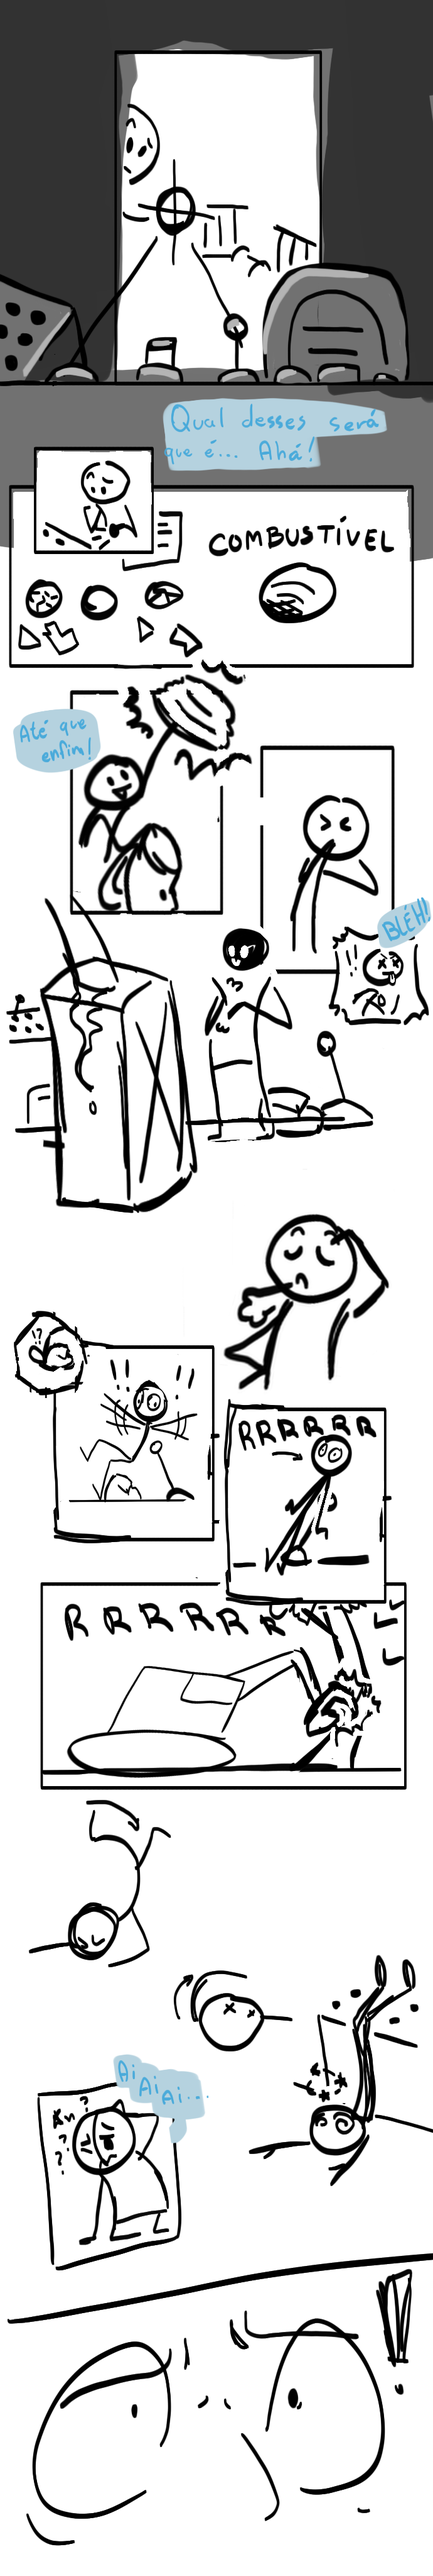
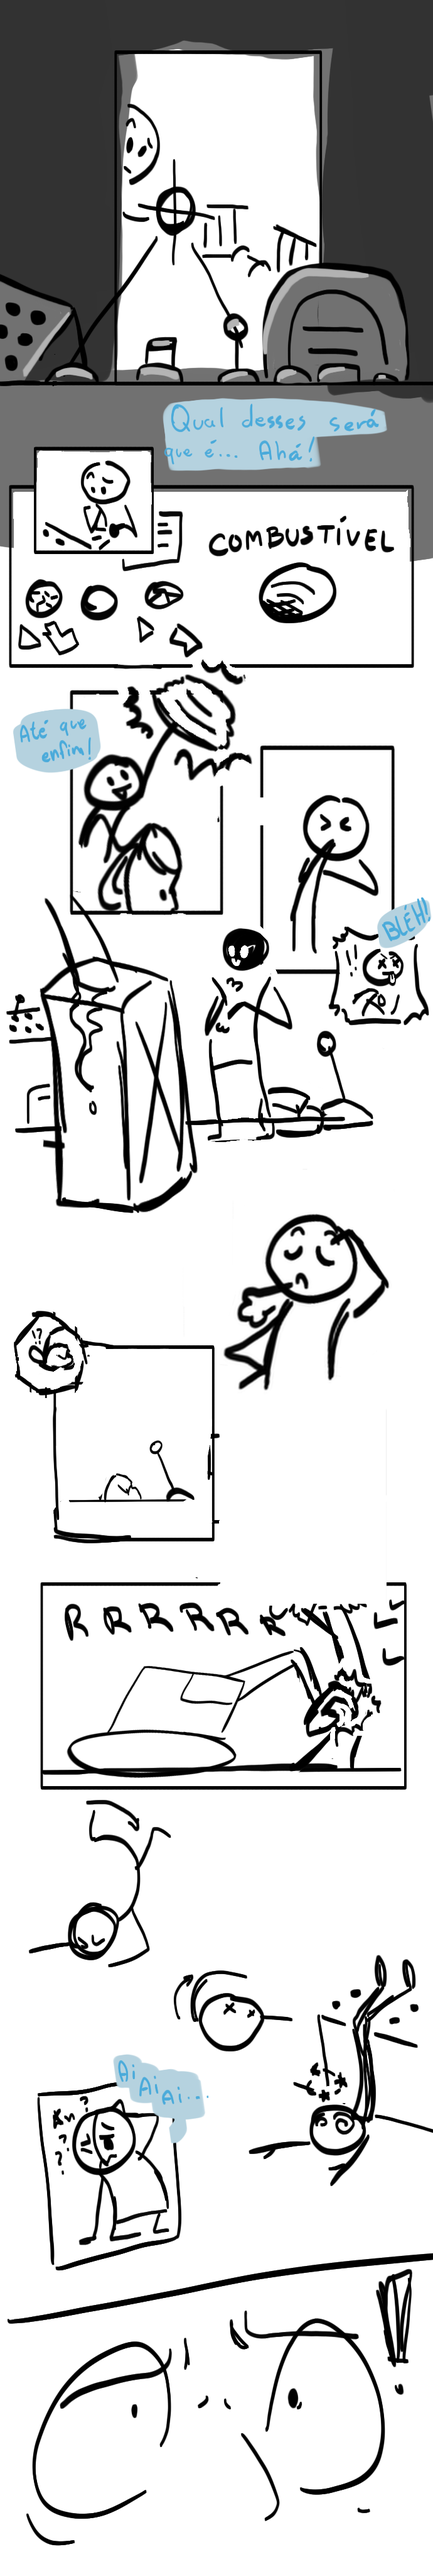
adiciona animações no quadrinho principal e ajusta detalhes de responsividade

Changed region(s): [[0.5174, 0.5312, 0.913, 0.625], [0.2435, 0.5312, 0.4565, 0.5625]]

diff --git a/Projeto/script.js b/Projeto/script.js
@@ -1,18 +1,28 @@
 let chegouAoFinal = false;
+let iniciaAnimacaoPagina3 = false;
 
 window.addEventListener("scroll", () => {
-    // if (window.innerWidth > 768) {
-    //     chegouAoFinal = window.innerHeight + window.scrollY >= document.documentElement.scrollHeight - 200;
-    // } else {
-    //     chegouAoFinal = window.innerHeight + window.scrollY >= document.documentElement.scrollHeight - 300;
-    // }
+    if(
+        window.innerHeight + window.scrollY >= document.documentElement.scrollHeight * 0.83
+        && !iniciaAnimacaoPagina3
+    ){
+        iniciaAnimacaoPagina3 = true;
+        const chocalhos = document.querySelectorAll(".chocalho");
+        
+        chocalhos[0].style.display = "none";
+        
+        setTimeout(() => {
+            chocalhos[0].style.display = "block";
+            chocalhos[1].style.display = "none";
+        }, 1800)
+        chocalhos[1].style.display = "block";
+    }
 
     if(!chegouAoFinal){
-    chegouAoFinal = window.innerHeight + window.scrollY >= document.documentElement.scrollHeight * 0.85;
+        chegouAoFinal = window.innerHeight + window.scrollY >= document.documentElement.scrollHeight * 0.95;
     }
 
     if(chegouAoFinal){
-
         document.querySelectorAll(".patrão").forEach(x => {
             x.style.display = "none";
         }) 
@@ -23,3 +33,4 @@ window.addEventListener("scroll", () => {
 
     }
 })
+

diff --git a/index.html b/index.html
@@ -8,12 +8,17 @@
 </head>
 <body>
     
-<img src="Projeto/img/1_Story_Nat_Pg1.png">
-<img class="patrão" src="Projeto/img/2_Story_Nat_Pg2.png">
-<img class="patrão" src="Projeto/img/3_Story_Nat_Pg3.png">
+    <img src="Projeto/img/1_Story_Nat_Pg1.png">
+    <img class="patrão" src="Projeto/img/2_Story_Nat_Pg2.png">
+    <div class="cena patrão">
+        <img src="Projeto/img/3_Story_Nat_Pg3.png">
+        <img src="Projeto/img/tropeco.gif" class="tropeco">
+        <img src="Projeto/img/chocalho.gif" class="chocalho">
+        <img src="Projeto/img/chocalho_parado.png" class="chocalho parado">
+    </div>
 
-<img class="ocultDay" src="Projeto/img/5_Story_Nat_Pg2_SideB.png">
-<img class="ocultDay" src="Projeto/img/4_Story_Nat_Pg3_SideB.png">
+    <img class="ocultDay" src="Projeto/img/5_Story_Nat_Pg2_SideB.png">
+    <img class="ocultDay" src="Projeto/img/4_Story_Nat_Pg3_SideB.png">
 
 <script src="Projeto/script.js"></script>
 </body>

diff --git a/Projeto/style.css b/Projeto/style.css
@@ -10,14 +10,42 @@ body{
     justify-content: center;
     align-items: center;
     background-color: black;
+    padding: 3rem 1rem;
 }
 
 img{
-    padding: 0 2.5%;
     max-width: 690px;
     width: 100%;
 }
 
 .ocultDay{
     display: none;
+}
+
+.cena {
+    position: relative;
+    width: min(100%, 690px);
+    aspect-ratio: 685 / 4096;
+}
+
+.cena img {
+    position: absolute;
+}
+
+.cena img:first-child {
+    display: block;
+    width: 100%;
+    object-fit: cover;
+}
+
+.tropeco {
+    width: 33%;
+    top: 52%;
+    left: 14%;
+}
+
+.chocalho {
+    width: 40.9%;
+    top: 53.8%;
+    left: 50%;
 }
